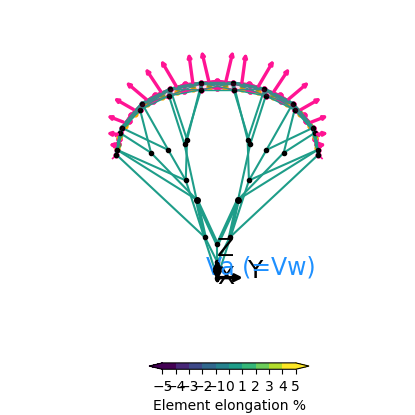
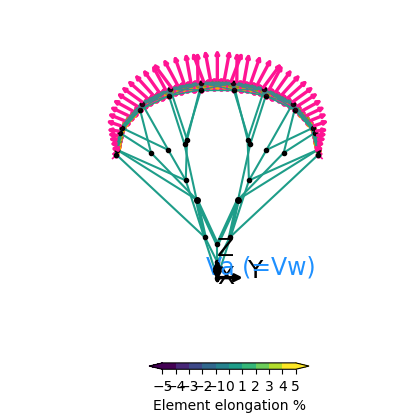
half-way through implementing new coupling-algorithm, issue #20

Changed region(s): [[0.2602, 0.1157, 0.8096, 0.3759]]

diff --git a/src/solver/solver_main.py b/src/solver/solver_main.py
@@ -217,6 +217,9 @@ def run_aerostructural_solver(
             coord_L,
             coord_refined,
         ) = VSM.calculate_force_aero_wing_VSM(points_left_to_right, vel_app, input_VSM)
+
+        # Distributing VSM-output chordwise
+
         # Aero --> struc
         force_aero_wing = coupling_aero2struc.aero2struc(
             points,
